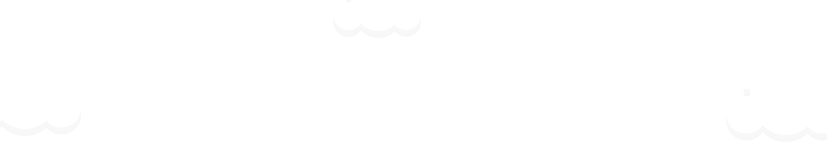
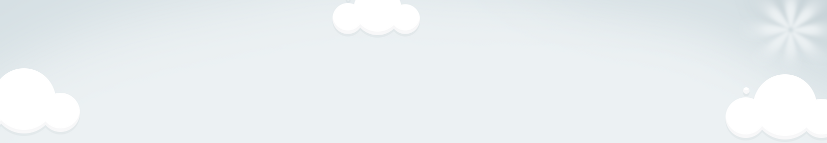
fixed background

Changed region(s): [[0.4837, 0.0, 1.0, 0.6993], [0.0, 0.0, 0.4232, 0.5315]]

diff --git a/css/style.css b/css/style.css
@@ -13,14 +13,7 @@ h1, h2, h3, h4, h5, h6 {
 html, body {
     height: 100%;
     font-family: 'Open Sans', sans-serif;
-    background: #e7ecef; /* Old browsers *
-    background: -moz-linear-gradient(top,  #e7ecef 0%, #ebf0f3 7%, #ecf1f4 14%, #ecf1f4 100%); /* FF3.6+ */
-    background: -webkit-gradient(linear, left top, left bottom, color-stop(0%,#e7ecef), color-stop(7%,#ebf0f3), color-stop(14%,#ecf1f4), color-stop(100%,#ecf1f4)); /* Chrome,Safari4+ */
-    background: -webkit-linear-gradient(top,  #e7ecef 0%,#ebf0f3 7%,#ecf1f4 14%,#ecf1f4 100%); /* Chrome10+,Safari5.1+ */
-    background: -o-linear-gradient(top,  #e7ecef 0%,#ebf0f3 7%,#ecf1f4 14%,#ecf1f4 100%); /* Opera 11.10+ */
-    background: -ms-linear-gradient(top,  #e7ecef 0%,#ebf0f3 7%,#ecf1f4 14%,#ecf1f4 100%); /* IE10+ */
-    background: linear-gradient(to bottom,  #e7ecef 0%,#ebf0f3 7%,#ecf1f4 14%,#ecf1f4 100%); /* W3C */
-    filter: progid:DXImageTransform.Microsoft.gradient( startColorstr='#e7ecef', endColorstr='#ecf1f4',GradientType=0 ); /* IE6-9 */
+    background:#ecf1f3;
 }
 
 .wrapper {
